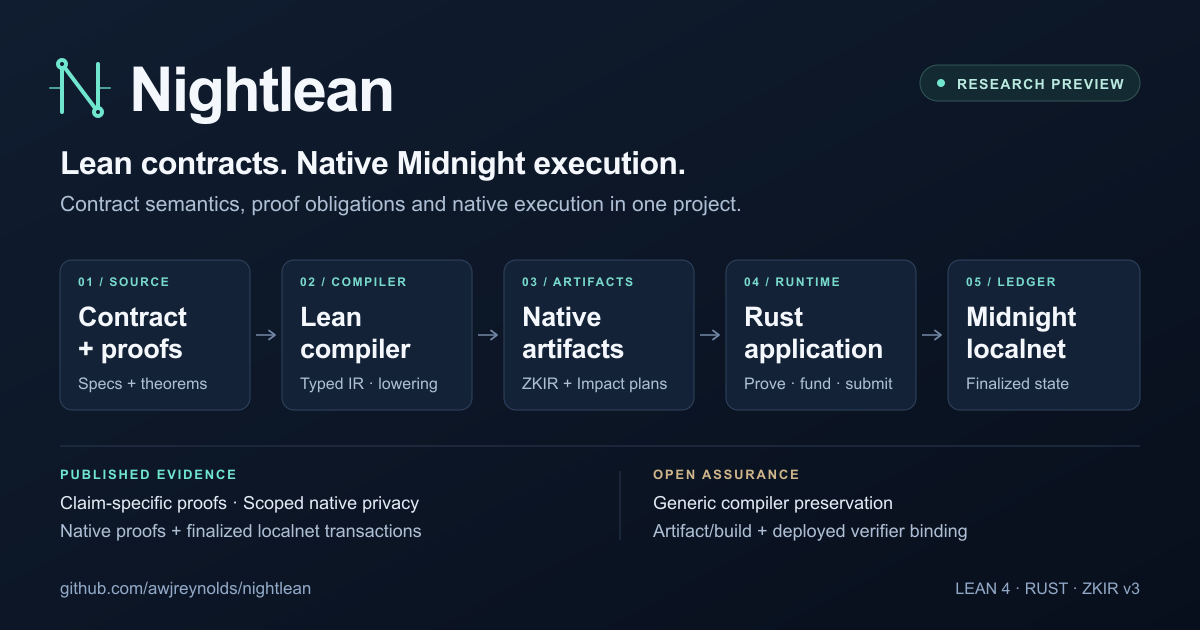
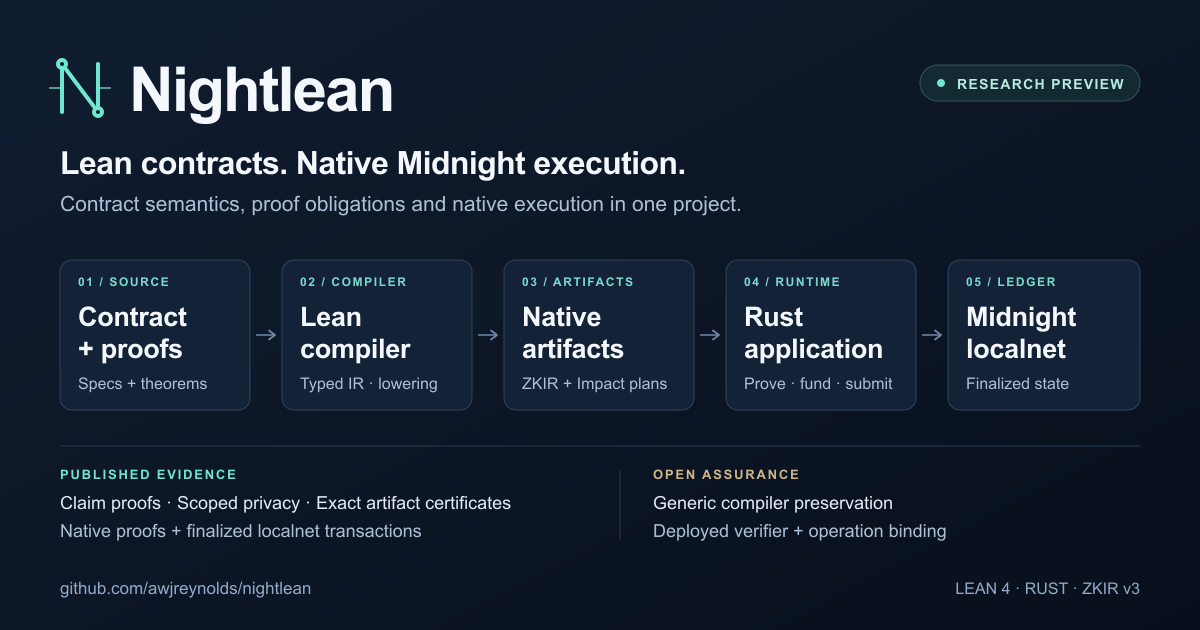
test: qualify exact claim byte build and privacy certificates

Changed region(s): [[0.5242, 0.8143, 0.8017, 0.8746], [0.0925, 0.7841, 0.4317, 0.8143]]

diff --git a/docs/development/private-claim-artifact-certificates.md b/docs/development/private-claim-artifact-certificates.md
@@ -4,7 +4,9 @@ This package joins the actual PrivateClaim source/specification proofs, native s
 
 The qualified subject remains the actual claim: its 27-instruction standalone relation, 55-instruction native call, 21-operation state plan and selected target profile. This is not a whole-language compiler theorem. The normal compiler gains no permanent ASCII, JSON or artifact-size feature ceiling from these claim-specific qualification limits.
 
-Qualification status: the implementation is at a provisional checkpoint. Core parser and exact-byte/data-checker prototypes have passed. The immutable published-source authority/candidate qualification is still pending. No authenticated build receipt is claimed yet.
+Qualification status: the immutable published-source authority/candidate qualification passed for commit `925164d0e17d994038d77d3b2b71c410619557d3`, tree `380ced01c6ced4409c7aedf59a9985d21b50f582`. Two fresh archives produced identical source, imported products, compiler product, public artifacts, model/theorem exports and generated certificate export. A separate trusted data/kernel process checked the retained byte constants and the concrete functional, completeness and privacy statements. The parent independently matched all 289 published source files and 10,194 toolchain files, replayed the base proof export, pinned the reviewed inputs, and separately reran the final retained-authority byte/kernel check. Both independent checking runs passed.
+
+The receipt describes that exact published commit. Later documentation or unrelated working-tree changes do not enter the qualified source snapshot. `tests/private-claim-artifacts-evidence.json` retains the results, digests and explicit scope.
 
 Key/deployed-operation identity remains issue 57. Native implementation, parser and cryptographic assumptions remain explicit. No unqualified verified-contract label follows from this package. `compiledContractVerified` stays false.
 
@@ -62,6 +64,31 @@ The independent data process imports only trusted checker code and authenticated
 `AuditArtifactExport.lean` constructs a `List UInt8` term directly from each separately read retained file. `Kernel.check` and `Kernel.isDefEq` compare this term with the exported byte constant. Every byte matters, including whitespace. The checker also compares against the independent authority's retained files. It does not rely solely on an AST equality or a candidate-supplied hash label.
 
 The Lean sub-check is one component of the protocol. It expects its authority/model inputs to have passed the controller's external-pin and provenance checks. Calling that component with an arbitrary self-selected authority is not authenticated build qualification.
+
+## Retained qualification
+
+The independent parent review matched all 289 published Git blobs and all 10,194 measured toolchain files. It also replayed the base theorem closure with the official Lean checker. The separate authority and candidate then rebuilt the public source without private invocation input. All 35 retained imported products and the compiler executable matched.
+
+The immutable run records these identities:
+
+| Input or output | SHA256 |
+| --- | --- |
[8 lines of base64/hex data omitted]
+
+The retained authority root is `/private/tmp/nightlean-artifact-authority-925164d`. The candidate root is `/private/tmp/nightlean-artifact-candidate-925164d`. Those local directories contain the archives, actual build products, public artifacts, exports and kernel replay logs. The public evidence receipt embeds the audit, regression and parser-sample reports so their results survive cleanup of local temporary directories. Reproduction requires fresh directories and independently reviewed pins, rather than trusting a copied candidate manifest.
+
+The audit admits only `propext`, `Classical.choice` and `Quot.sound`. It checks source functional/privacy roles, native privacy, concrete byte functional preservation, eligible-source completeness and concrete byte privacy composition. Thus the formal privacy foundation from child issue 63 now composes with an instantiated byte/build certificate for this commit. The observer remains `successfulClaimPublicTranscriptV1`, with the explicit scope and host premises above.
+
+Eight old-binding mutation cases passed: whitespace bytes, semantic bytes, source definition, specification, theorem body, imported product, selected target and certificate export. A separate kernel check rejected changed whitespace after bypassing the earlier hash gate. A fresh whitespace variant passed the parser/model equality. Removing the root assertion failed at the real `decide +kernel` equality. Import/setup errors contributed no semantic rejection evidence.
+
+Nine accepted samples matched Rust serde_json 1.0.154. Four whitespace/ASCII-escape variants matched the official ZKIR 3.2.1 parser. These checks provide finite sample evidence and leave `NativeParserAgreement` as an implementation assumption. They prove neither the Rust implementation nor full JSON-language agreement.
 
 ## Commands
 

diff --git a/docs/designs/architecture.md b/docs/designs/architecture.md
@@ -10,7 +10,7 @@ Nightlean places the contract language, typed intermediate representation, refer
 
 **Lean compiler.** Elaboration produces typed circuit and contract IR. Validation checks the supported target profile. The [scalar disclosure pass](../development/disclosure.md) tracks private origins at public sinks. A [proved pruning pass](../development/assurance.md#kernel-checked-compiler-transformation) removes true constraints without changing reference behavior. Native lowering emits relations and plans, and the [producer gate](../development/native-producer-safety.md) rejects unsupported or invalid scalar descriptors.
 
-**Native artifacts.** ZKIR v3 relations describe proof constraints. Impact plans describe native ledger operations, state layout and ordered reads. A retained public bundle binds the artifacts, selected profile and keys through an authenticated manifest. [Bundle verification](../development/portable-artifacts.md) is a runtime integrity mechanism. A complete formal certificate from reviewed source through exact bytes and deployed keys is still open.
+**Native artifacts.** ZKIR v3 relations describe proof constraints. Impact plans describe native ledger operations, state layout and ordered reads. A retained public bundle binds the artifacts, selected profile and keys through an authenticated manifest. [Bundle verification](../development/portable-artifacts.md) is a runtime integrity mechanism. [Exact claim byte/build certificates](../development/private-claim-artifact-certificates.md) now bind retained outputs to the reviewed source/model. Deployed key identity remains open.
 
 **Native application.** The Rust runtime executes plans through explicit host capabilities. The assembler constructs native intents. The proof API verifies the frozen statement before attaching a proof, and the [client](../development/native-client.md) funds, seals, submits and validates finalized results. Private journals support recovery and versioned compare-and-exchange. Chain acceptance and private-store commit are distinct outcomes. The [C/C++ ABI](../development/native-runtime-abi.md) exposes runtime execution and providers. The full transaction ABI and mobile/WASM bindings remain separate work.
 
@@ -24,7 +24,7 @@ The strongest published formal results concern the actual private-claim program.
 | --- | --- | --- |
 | [Source properties](../development/private-claim-proofs.md) | Eligibility equations, exact updates, invariants, framing, replay rejection and scoped source privacy | Correctness of the intended business specification and stated hash assumptions |
 | [Proof audit](../development/proof-registration.md) | Typed obligation matching, pinned model comparison, fresh-kernel replay and transitive axiom checks | Independent specification review and authenticated release provenance |
-| [Native relation](../development/private-claim-lowering-proofs.md) and [state](../development/private-claim-native-state-proofs.md) | Claim-specific soundness, completeness, state/transcript preservation and JSON-tree certificates | Exact byte parsing/build qualification, native implementation agreement and real admission limits |
+| [Native relation](../development/private-claim-lowering-proofs.md) and [state](../development/private-claim-native-state-proofs.md) | Claim-specific soundness, completeness, state/transcript preservation and JSON-tree certificates | Native implementation agreement, real admission limits and deployed identity |
 | [Native privacy](../development/private-claim-native-privacy-proofs.md) | Equal declared public observations for successful runs with coupled host context | Proof-byte zero knowledge, failure channels, timing, logs and provider observations |
 | [Native integration](../development/native-client.md#retained-qualification) | Real proofs, finalized localnet execution, state comparison and recovery tests | General feature coverage, public-network qualification and independent security review |
 
@@ -32,7 +32,7 @@ Fresh-kernel audits admit only the pinned foundational axioms `propext`, `Classi
 
 The kernel checks the modeled propositions. Native parser, hash, VM, proof-system and host implementations retain explicit agreement assumptions. The scoped privacy theorem does not prove cryptographic secrecy of proof bytes or hide success versus failure. Functional correctness supplies no automatic confidentiality guarantee.
 
-Three open links deserve particular attention: [exact artifact/build qualification](https://github.com/awjreynolds/nightlean/issues/56), [deployed key and operation binding](https://github.com/awjreynolds/nightlean/issues/57), and [generic scalar compiler preservation](https://github.com/awjreynolds/nightlean/issues/64). The artifact certificate has a [published implementation checkpoint](../development/private-claim-artifact-certificates.md), with immutable-build qualification still pending. Broader native features need their own preservation evidence. `compiledContractVerified` stays false until the required chain is established.
+Two open links deserve particular attention: [deployed key and operation binding](https://github.com/awjreynolds/nightlean/issues/57) and [generic scalar compiler preservation](https://github.com/awjreynolds/nightlean/issues/64). The [exact artifact certificate](../development/private-claim-artifact-certificates.md) passed independent immutable builds, retained-byte kernel checks and scoped functional/privacy composition. Broader native features need their own preservation evidence. `compiledContractVerified` stays false until the required chain is established.
 
 ## Scope and growth
 

diff --git a/docs/compatibility/GOAL.md b/docs/compatibility/GOAL.md
@@ -63,8 +63,8 @@ The [native proof SDK](../development/native-proof-api.md) authenticates retaine
 
 The [actual private-claim source proofs](../development/private-claim-proofs.md) establish source eligibility equations, invariant preservation, exact state updates, framing and replay rejection. A two-run theorem establishes equal successful source observations under the declared public-input policy. Six valid source mutations each break their expected proof clause. Hash semantics and canonical inputs remain explicit assumptions rather than cryptographic secrecy claims.
 
-The [standalone native claim relation proofs](../development/private-claim-lowering-proofs.md) establish arbitrary-satisfying-witness soundness, source completeness and pruning composition under a named hash agreement. A kernel-checked JSON-tree certificate covers the actual emitted scalar relation, including public return binding through Impact. Altered path wiring and an omitted root assertion fail their certificates. The [native claim state/transcript proof](../development/private-claim-native-state-proofs.md) now derives actual source acceptance and the exact encoded successor from arbitrary satisfying assignments and independent checked VM traces. Fresh JSON-tree certificates and native mutation checks cover the fixed claim plan. Real native cost/size and implementation agreement remain explicit assumptions. The [scoped native privacy proof](../development/private-claim-native-privacy-proofs.md) and fresh kernel/export audit now cover arbitrary successful native claim observations, including transcript activity and explicit communication-binding assumptions. Exact byte parsing/build authentication and deployed identity remain open.
+The [standalone native claim relation proofs](../development/private-claim-lowering-proofs.md) establish arbitrary-satisfying-witness soundness, source completeness and pruning composition under a named hash agreement. A kernel-checked JSON-tree certificate covers the actual emitted scalar relation, including public return binding through Impact. Altered path wiring and an omitted root assertion fail their certificates. The [native claim state/transcript proof](../development/private-claim-native-state-proofs.md) now derives actual source acceptance and the exact encoded successor from arbitrary satisfying assignments and independent checked VM traces. Fresh JSON-tree certificates and native mutation checks cover the fixed claim plan. Real native cost/size and implementation agreement remain explicit assumptions. The [scoped native privacy proof](../development/private-claim-native-privacy-proofs.md) and fresh kernel/export audit now cover arbitrary successful native claim observations, including transcript activity and explicit communication-binding assumptions. [Exact byte/build certificates](../development/private-claim-artifact-certificates.md) now qualify the actual claim through independent immutable builds and retained-byte kernel checks. Deployed identity remains open.
 
-The [source proof-audit foundation](../development/proof-registration.md) provides typed functional/privacy obligations, model-digest authentication, fresh kernel replay, exact statement checks and transitive axiom policy. The actual private-claim policy now passes both source obligations, with wrong-policy and changed-source rejection evidence. Checked counterexamples separate functional correctness, successful-only privacy and failure-channel privacy. [Generic scalar compiler preservation](https://github.com/awjreynolds/nightlean/issues/64), broader native feature preservation, exact-artifact certificates and deployed key/operation binding remain mandatory open gates. Deployment receipts establish integration behavior. Whole-compiler assurance requires generic pass and lowering proofs or proved translation validation, including source completeness. No source proof or accepted receipt establishes the complete verified-contract chain alone.
+The [source proof-audit foundation](../development/proof-registration.md) provides typed functional/privacy obligations, model-digest authentication, fresh kernel replay, exact statement checks and transitive axiom policy. The actual private-claim policy now passes both source obligations, with wrong-policy and changed-source rejection evidence. Checked counterexamples separate functional correctness, successful-only privacy and failure-channel privacy. [Generic scalar compiler preservation](https://github.com/awjreynolds/nightlean/issues/64), broader native feature preservation and deployed key/operation binding remain mandatory open gates. Deployment receipts establish integration behavior. Whole-compiler assurance requires generic pass and lowering proofs or proved translation validation, including source completeness. No source proof or accepted receipt establishes the complete verified-contract chain alone.
 
 [Structured host control](../development/structured-control.md) now supports lazy branches, short-circuit scheduling, witness suspension and invocation-local private staging in Rust and C++. Constant-aware disclosure analysis checks scalar return payloads and accumulated private control. Host scheduling remains visible to the host. Native guarded proof and ledger execution stays disabled until its own backend and preservation package passes.

diff --git a/docs/development/private-claim-native-privacy-proofs.md b/docs/development/private-claim-native-privacy-proofs.md
@@ -80,7 +80,7 @@ The audit exports and replays the required theorem/certificate closure and check
 
 An independent trusted model export and digest are supported through `--trusted-model-export` and `--trusted-model-sha256`. Without those arguments, the runner uses a retained local regression baseline. A local baseline is not independent review of the business specification. The export checker reads data, compares declarations and replays terms. It imports no candidate modules or initializers.
 
-`NativePrivacy.ExactArtifactBinding` exposes the remaining byte/build obligations: the actual parser must map retained bytes to the certified trees, and the authenticated build predicate must bind those bytes to the reviewed source identity. `exact_artifact_composition` joins those future arguments to the decoded bound-privacy obligation. No byte/build certificate inhabitant is supplied. The parser and build predicate must themselves be pinned and qualified by issue 56. This interface does not authenticate UTF-8 bytes, import provenance, a compiler executable or keys.
+`NativePrivacy.ExactArtifactBinding` exposes the remaining byte/build obligations: the actual parser must map retained bytes to the certified trees, and the authenticated build predicate must bind those bytes to the reviewed source identity. `exact_artifact_composition` joins those future arguments to the decoded bound-privacy obligation. No byte/build certificate inhabitant is supplied by this original foundation package. The parser and build predicate must themselves be pinned and qualified by issue 56. This interface does not authenticate UTF-8 bytes, import provenance, a compiler executable or keys.
 
 Retained development evidence lives under `.nightlean/audits/private-claim-privacy/`. The portable summary is `tests/private-claim-privacy-evidence.json`. The summary reports the policy, observer, exclusions, host/binding premises, required assumptions, rejected mutations and pending issue 56/57 links.
 
@@ -91,3 +91,9 @@ Retained development evidence lives under `.nightlean/audits/private-claim-priva
 The sample also requires the deprecated JS `ContractCallPrototype.intoCall` path to reject for the same nonzero randomness. In the pinned legacy ledger-v9 JS adapter, that method supplies the randomness as commitment and ignores its parent-binding argument. `Intent.addCall` computes the proper commitment. This regression prevents silently falling back to a zero-randomness diagnostic or the deprecated constructor.
 
 The adapter's constructor binding remains the zero placeholder. The sample labels final proof-phase override as unverified. It proves no zero-knowledge property of generated proof bytes and sends no transaction.
+
+## Exact-byte integration
+
+The later [exact artifact certificate](private-claim-artifact-certificates.md) instantiates this foundation interface for immutable public compiler commit `925164d0e17d994038d77d3b2b71c410619557d3`. Independent authority and candidate builds matched, and a separate kernel checker matched retained bytes to the concrete functional, completeness and privacy certificate. The [new receipt](../../tests/private-claim-artifacts-evidence.json) records the qualified source/tool/model identities and parent verification.
+
+The original privacy evidence above retains its historical foundation-snapshot flags. The new certificate closes its byte/build integration obligation for the actual claim. Key generation and deployed operation identity remain [issue 57](https://github.com/awjreynolds/nightlean/issues/57). The observer, successful-run scope and excluded observables stay as stated above.

diff --git a/README.md b/README.md
@@ -17,7 +17,7 @@ Nightlean is a Lean 4 compiler and native runtime for Midnight private contracts
 
 The compiler and primary lowering are written in Lean. The Rust application path handles proving, funding, submission and recovery without Node. No Compact compiler or runtime dependency sits between your source and the native backend.
 
-**Research preview, with published proofs and finalized localnet runs.** The current private-claim workload has source correctness proofs, claim-specific native preservation proofs and scoped privacy proofs. Whole-compiler correctness, exact artifact/build qualification and deployed verifier binding remain open.
+**Research preview, with published proofs and finalized localnet runs.** The current private-claim workload has source correctness proofs, claim-specific native preservation proofs and scoped privacy proofs. Exact byte/build certificates now join those proofs to the retained claim artifacts. Whole-compiler correctness and deployed verifier binding remain open.
 
 Lean serves two roles: a finite language for compilable contracts and a full proof language for specifications and theorems. Circuit constraints and ledger state effects stay separate, so each has an explicit semantics and assurance boundary. See the [architecture overview](docs/designs/architecture.md).
 
@@ -65,10 +65,11 @@ The full example writes the result to a ledger cell. [`PrivateClaim.lean`](examp
 | [Typed proof audit](docs/development/proof-registration.md) | Exact obligation and model checks, fresh Lean kernel replay, and a transitive axiom policy. Functional and privacy obligations are separate. |
 | [Native relation](docs/development/private-claim-lowering-proofs.md) and [state preservation](docs/development/private-claim-native-state-proofs.md) | Claim-specific soundness for arbitrary satisfying assignments and checked VM traces, source completeness, and certificates for the emitted JSON trees. |
 | [Native privacy](docs/development/private-claim-native-privacy-proofs.md) | Equal public native observations for successful claim executions under explicit host-context and implementation assumptions. Proof bytes, failures, logs and timing are outside the observer. |
+| [Exact artifact certificates](docs/development/private-claim-artifact-certificates.md) | Independent immutable-source builds, kernel checks of retained raw bytes, and functional/privacy composition. Eight stale-binding mutations reject. |
 | [Rust client qualification](docs/development/native-client.md#retained-qualification) | Real proofs, funded deployment and claim submission, finalized state checks, and durable recovery on both selected 3.2.0 and 3.2.1 profiles. |
 | [Bounded scalars](docs/development/unsigned-localnet.md) | Finalized deployment and call, exact predicted state, and 34 adversarial witness cases against both native checker profiles. |
 
-Lean checks the stated theorems. Localnet receipts establish tested integration behavior. Neither establishes a universally verified compiler or a production-ready contract. Native cryptography, parser/VM agreement, host behavior and the missing artifact/deployment links remain explicit [trust boundaries](docs/designs/architecture.md#assurance-boundaries).
+Lean checks the stated theorems. Localnet receipts establish tested integration behavior. Neither establishes a universally verified compiler or a production-ready contract. Native cryptography, parser/VM agreement, host behavior and the remaining deployment links stay explicit [trust boundaries](docs/designs/architecture.md#assurance-boundaries).
 
 ## Direction and contributions
 

diff --git a/docs/README.md b/docs/README.md
@@ -33,7 +33,7 @@ Keep private invocation files separate from public artifacts. Receipt reports id
 | Source relation to native constraints | [Arbitrary-witness soundness and source completeness](development/private-claim-lowering-proofs.md) |
 | Source transition to native VM and transcript | [State, framing, replay and public transcript preservation](development/private-claim-native-state-proofs.md) |
 | Source privacy to native observations | [Successful-run native privacy and its excluded observables](development/private-claim-native-privacy-proofs.md) |
-| Exact bytes and build provenance | [Published implementation checkpoint](development/private-claim-artifact-certificates.md), immutable-build qualification pending in [issue 56](https://github.com/awjreynolds/nightlean/issues/56) |
+| Exact bytes and build provenance | [Qualified immutable builds and exact retained-byte certificates](development/private-claim-artifact-certificates.md), with functional/privacy composition |
 | Deployed identity | Open [key/deployment binding](https://github.com/awjreynolds/nightlean/issues/57) |
 | Generic compiler preservation | Open [scalar compiler proof work](https://github.com/awjreynolds/nightlean/issues/64), followed by broader feature coverage |
 
